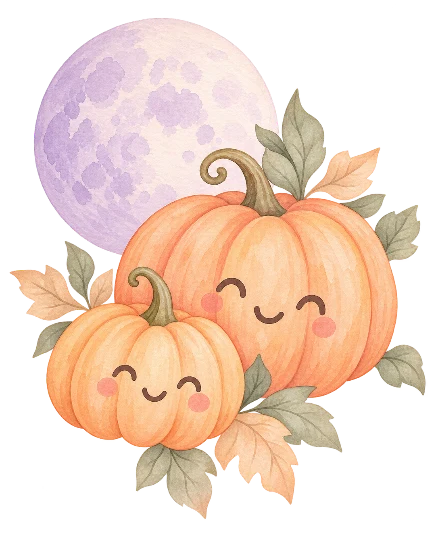
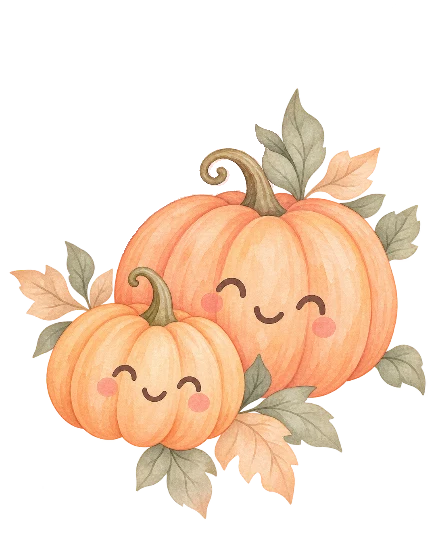
Refina composição das artes de Halloween na hero

Changed region(s): [[0.0594, 0.0296, 0.653, 0.4741]]

diff --git a/style.css b/style.css
@@ -125,6 +125,7 @@ a { color: inherit; }
 .hero {
   position: relative;
   overflow: hidden;
+  container-type: inline-size;
   background:
     radial-gradient(circle at 0% 0%, rgba(245, 220, 231, .75), transparent 30%),
     radial-gradient(circle at 100% 16%, rgba(232, 189, 208, .55), transparent 28%),
@@ -138,14 +139,30 @@ a { color: inherit; }
   user-select: none;
 }
 .halloween-hero img { position: absolute; height: auto; }
+.hero-title { position: relative; }
+.halloween-title-art {
+  display: none;
+  position: absolute;
+  inset-block: 0;
+  /* A largura da hero conserva as coordenadas e os recortes laterais das artes. */
+  left: calc(-1 * max(16px, (100cqw - 1160px) / 2));
+  width: 100cqw;
+  z-index: -1;
+  pointer-events: none;
+  user-select: none;
+}
+.hero:has(.halloween-hero:not([hidden])) .halloween-title-art { display: block; }
+.halloween-title-art img { position: absolute; top: 50%; height: auto; }
 .halloween-hero-ghost {
-  top: 80px;
+  /* Centro visivel: y=221.5 em 455px, descontando as margens transparentes. */
+  translate: 0 -48.68%;
   left: min(-70px, calc(50% - 835px));
   width: 330px;
   opacity: .38;
 }
 .halloween-hero-pumpkins {
-  top: 45px;
+  /* Centro dos corpos das aboboras (y=321 em 540px), sem a lua e a folhagem. */
+  translate: 0 -59.44%;
   right: -28px;
   width: 260px;
   opacity: .4;
@@ -155,7 +172,7 @@ a { color: inherit; }
 .halloween-hero-web-right { right: -5px; transform: scaleX(-1); }
 .halloween-hero-bats { top: 6px; left: 40%; width: 240px; opacity: .55; pointer-events: none; }
 .halloween-hero-bats-left { top: 0; left: 22%; width: 175px; transform: scaleX(-1) rotate(-7deg); }
-.halloween-hero-bats-right { top: 350px; left: auto; right: -8px; width: 140px; transform: rotate(8deg); }
+.halloween-hero-bats-right { top: 660px; left: calc(50% - 140px); right: auto; width: 140px; transform: rotate(8deg); }
 .hero > .nav,
 .hero > .hero-content { position: relative; }
 .nav {
@@ -185,6 +202,7 @@ a { color: inherit; }
 }
 .hero-content {
   display: grid;
+  isolation: isolate;
   grid-template-columns: 1fr 1fr;
   align-items: center;
   gap: 56px;
@@ -1025,8 +1043,8 @@ footer a { font-weight: 700; }
 }
 
 @media (max-width: 960px) {
-  .halloween-hero-ghost { top: 100px; left: -45px; width: 270px; opacity: .3; }
-  .halloween-hero-pumpkins { top: 75px; right: -40px; width: 225px; opacity: .3; }
+  .halloween-hero-ghost { left: -45px; width: 270px; opacity: .3; }
+  .halloween-hero-pumpkins { right: -40px; width: 225px; opacity: .3; }
   .halloween-hero-bats { left: 36%; width: 200px; }
   .halloween-hero-bats-left { top: 4px; left: 20%; width: 110px; }
   .halloween-hero-bats-right { top: 390px; left: auto; right: 0; width: 120px; }
@@ -1115,8 +1133,9 @@ footer a { font-weight: 700; }
 
 @media (max-width: 620px) {
   .cart-header::before { top: -44px; }
-  .halloween-hero-ghost { top: 82px; left: -62px; width: 190px; opacity: .28; }
-  .halloween-hero-pumpkins { top: 66px; right: -60px; width: 180px; opacity: .28; }
+  .halloween-title-art { left: -11px; }
+  .halloween-hero-ghost { left: -62px; width: 190px; opacity: .28; }
+  .halloween-hero-pumpkins { right: -60px; width: 180px; opacity: .28; }
   .halloween-hero-web { width: 85px; }
   .halloween-hero-bats { top: 12px; left: 28%; width: 150px; opacity: .4; }
   .halloween-hero-bats-left { top: auto; bottom: -8px; left: -6px; width: 110px; }

diff --git a/index.html b/index.html
@@ -119,13 +119,11 @@
   <link rel="icon" type="image/png" sizes="192x192" href="assets/icons/favicon-192x192.png">
   <link rel="icon" type="image/png" sizes="512x512" href="assets/icons/favicon-512x512.png">
   <link rel="apple-touch-icon" sizes="180x180" href="assets/icons/apple-touch-icon.png">
-  <link rel="stylesheet" href="style.css?v=30">
+  <link rel="stylesheet" href="style.css?v=33">
 </head>
 <body>
   <header class="hero" id="inicio">
     <div class="halloween-hero" aria-hidden="true">
-      <img class="halloween-hero-ghost" src="assets/images/halloween-ghost-cookie.webp" alt="" width="640" height="455" decoding="async">
-      <img class="halloween-hero-pumpkins" src="assets/images/halloween-pumpkins-moon.webp" alt="" width="438" height="540" decoding="async">
       <img class="halloween-hero-web halloween-hero-web-left" src="assets/images/halloween-web.webp" alt="" width="294" height="320" decoding="async">
       <img class="halloween-hero-web halloween-hero-web-right" src="assets/images/halloween-web.webp" alt="" width="294" height="320" decoding="async">
       <img class="halloween-hero-bats" src="assets/images/halloween-bats-stars.webp" alt="" aria-hidden="true" width="480" height="343" decoding="async">
@@ -169,7 +167,13 @@
     <div class="hero-content shell">
       <div class="hero-copy">
         <p class="eyebrow">1ª cookieteria de Santarém</p>
-        <h1>Cookies artesanais em Santarém, assados na hora</h1>
+        <div class="hero-title">
+          <div class="halloween-title-art" aria-hidden="true">
+            <img class="halloween-hero-ghost" src="assets/images/halloween-ghost-cookie.webp" alt="" width="640" height="455" decoding="async">
+            <img class="halloween-hero-pumpkins" src="assets/images/halloween-pumpkins-moon.webp?v=2" alt="" width="438" height="540" decoding="async">
+          </div>
+          <h1>Cookies artesanais em Santarém, assados na hora</h1>
+        </div>
         <p class="hero-text">
           Escolha seus sabores favoritos, monte seu pedido pelo site e finalize pelo WhatsApp para entrega ou retirada.
         </p>
